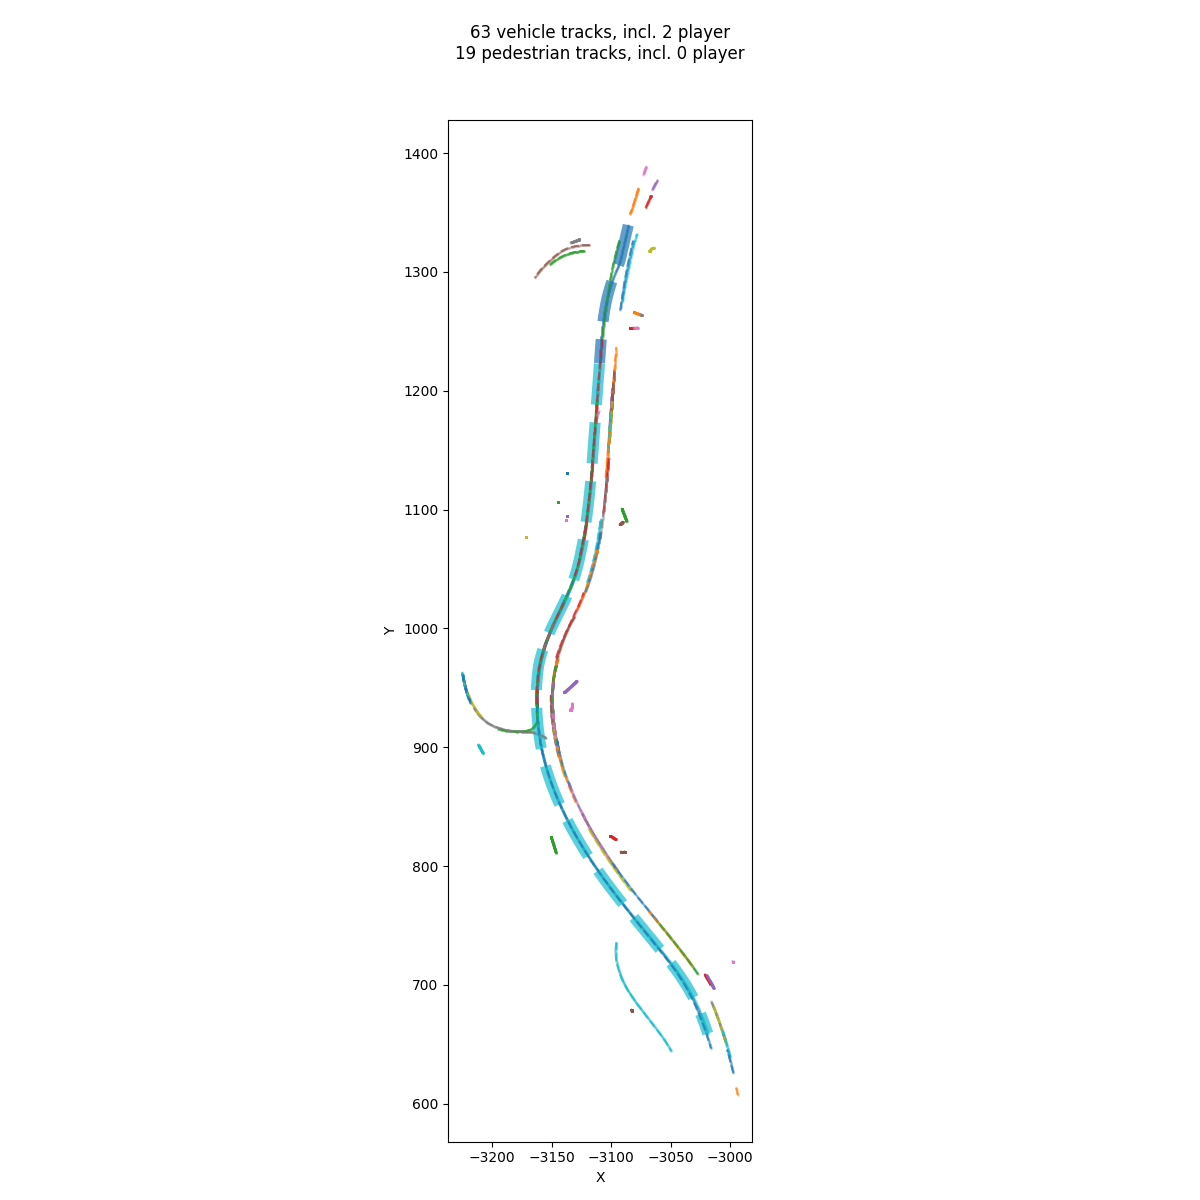
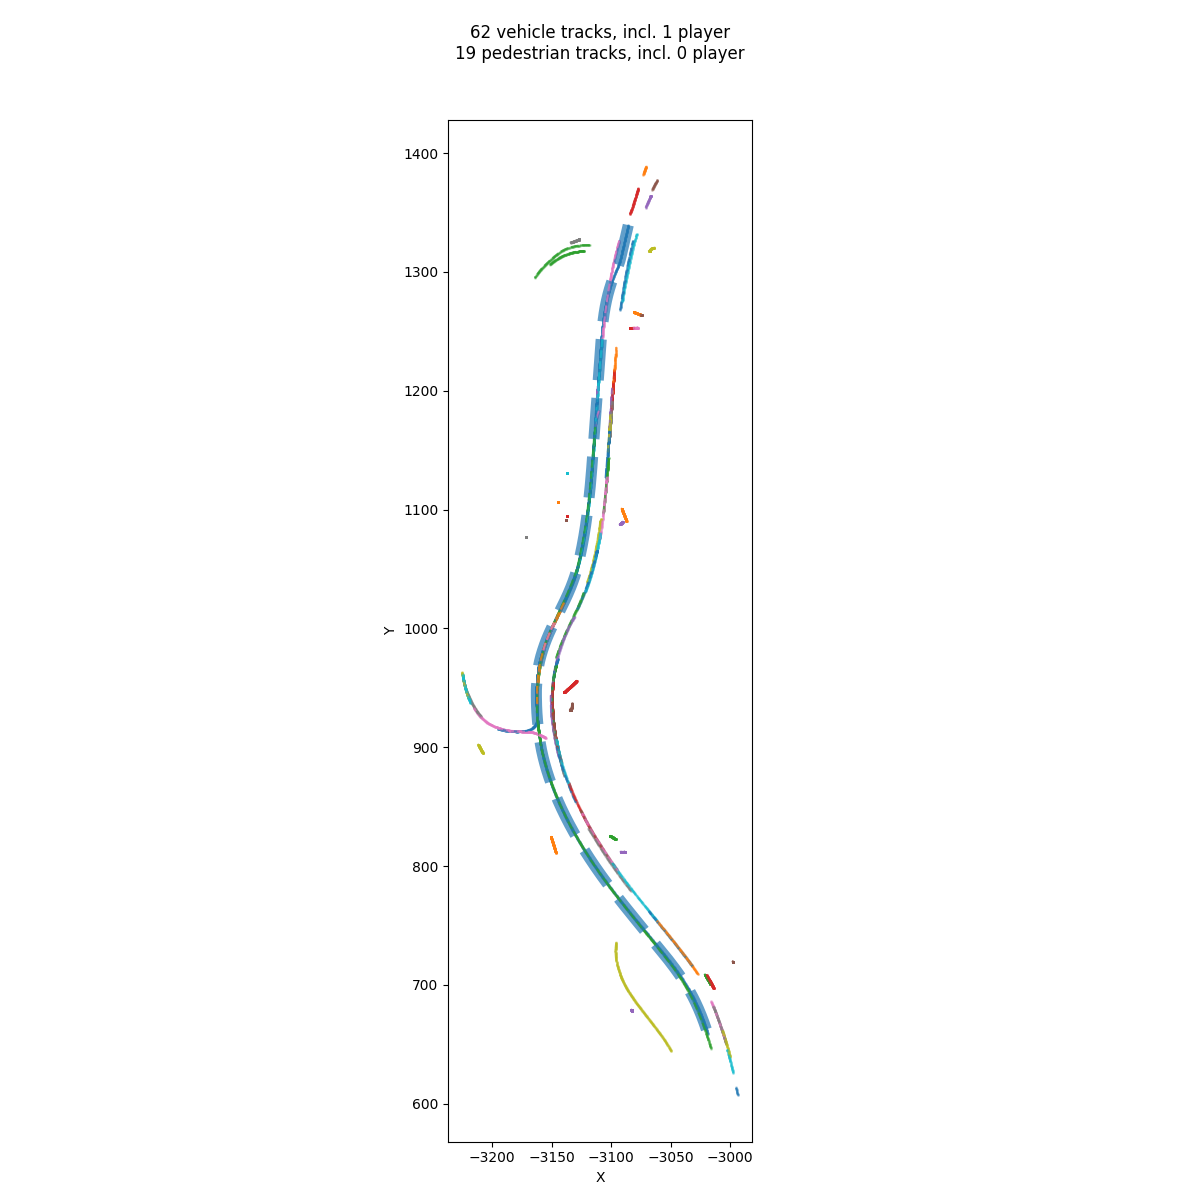
At least, we can merge player tracks.

Changed region(s): [[0.4008, 0.2158, 0.6167, 0.8942], [0.5242, 0.1542, 0.555, 0.185], [0.4625, 0.185, 0.4933, 0.2158]]

diff --git a/src/gta/read_entitystate_data.py b/src/gta/read_entitystate_data.py
@@ -370,12 +370,15 @@ class Track:
 
     def can_merge(self, track, do_plot=False):
         """Return True if the two tracks can be merged."""
-        first, second = self._select_dominant_track(self, track)
+        first = self if self.tmin < track.tmin else track
+        second = self if self is not first else track
         unaffinity = min(
-            first.unaffinity(second.get_interpolated_state(first.tmax)), 
-            second.unaffinity(first.get_interpolated_state(second.tmax))
+            first.unaffinity(second.get_interpolated_state(first.tmax), which=-1), 
+            second.unaffinity(first.get_interpolated_state(second.tmin), which=0)
         )
         possible = unaffinity < first.unaffinity_threshold
+        if possible:
+            print(self, 'can be merged with', track)
         if do_plot and (
             (not first.has_constant_position)
             and
@@ -611,6 +614,78 @@ class TrackManager:
             tested_tracks.sort(key=lambda track: track.duration)
         return tested_tracks[-1]
 
+    def merge_player_tracks(self):
+        tracks = list(sorted(self.tracks, key=lambda track: track.tmin))
+        starting_num_tracks = len(tracks)
+
+        # Identify player vehicles.
+        player_vehicle = None
+        player_ped = None
+
+        new_tracks = []
+        for track in tracks:
+            if track.is_player:
+                if track.is_vehicle:
+                    if player_vehicle is None:
+                        player_vehicle = track
+                    else:
+                        player_vehicle = player_vehicle + track
+                else:
+                    if player_ped is None:
+                        player_ped = track
+                    else:
+                        player_ped = player_ped + track
+                track = None    
+            new_tracks.append(track)
+
+        if player_vehicle is not None:
+            new_tracks.append(player_vehicle)
+        
+        if player_ped is not None:
+            new_tracks.append(player_ped)
+
+        ending_num_tracks = self._delete_merged_tracks(new_tracks)
+
+        assert starting_num_tracks >= ending_num_tracks
+        return starting_num_tracks - ending_num_tracks
+
+    def merge_tracks_by_id(self):
+        tracks = list(sorted(self.tracks, key=lambda track: track.tmin))
+        starting_num_tracks = len(tracks)
+
+        all_ids = set()
+        for track in tracks:
+            all_ids.update(track.ids)
+
+        track_merges = []
+        #pbar = tqdm(total=len(tracks)*len(tracks), unit='pair', desc='Merging tracks by ID')
+        for i, track in enumerate(tracks):
+            this_track_merges = [i]
+            for j, other_track in enumerate(tracks):
+                #pbar.update()
+                if track is other_track:
+                    continue
+                if (
+                    (track.is_vehicle and not other_track.is_vehicle)
+                    or
+                    (not track.is_vehicle and other_track.is_vehicle)
+                ):
+                    continue
+                if (
+                    set(track.ids).intersection(set(other_track.ids)) 
+                    and track.can_merge(other_track)
+                ):
+                    this_track_merges.append(j)
+            track_merges.append(this_track_merges)
+        
+        merge_sets = self._create_merge_sets(track_merges)
+        new_tracks = self._merge_by_mergesets(tracks, merge_sets)
+            
+        ending_num_tracks = self._delete_merged_tracks(new_tracks)
+
+        assert starting_num_tracks >= ending_num_tracks
+        return starting_num_tracks - ending_num_tracks
+
     def merge_tracks_where_possible(self, method='dist'):
         tracks = list(sorted(self.tracks, key=lambda track: track.tmin))
         starting_num_tracks = len(tracks)
@@ -685,39 +760,57 @@ class TrackManager:
                     #    mergees.remove(itrack)
                     track_merges.append(tracks_nearby)
 
-            # Find overlapping sets.
-            merge_sets = []
-            for mergees in track_merges:
-                mergees = set(mergees)
-                has_overlap = False
-                for existing_set in merge_sets:
-                    if existing_set.intersection(mergees):
-                        # There's an overlap; replace the existing set with the union one.
-                        new_set = set(existing_set).union(mergees)
-                        merge_sets.remove(existing_set)
-                        merge_sets.append(new_set)
-                        has_overlap = True
-                if not has_overlap:
-                    merge_sets.append(mergees)
-                    
-            # Do the merging.
-            for i, mergees in enumerate(merge_sets):
-                if len(mergees) > 0:
-                    for j in mergees:
-                        if j != i:
-                            ti = tracks[i]
-                            tj = tracks[j]
-                            if ti is not None and tj is not None:
-                                merged = tracks[i] + tracks[j]
-                                if merged is ti:
-                                    tracks[j] = None
-                                else:
-                                    tracks[i] = None
+            
+            merge_sets = self._create_merge_sets(track_merges)
+            tracks = self._merge_by_mergesets(tracks, merge_sets)
 
+
+        # Remove any tracks that were merged away.
+        ending_num_tracks = self._delete_merged_tracks(tracks)
+
+        assert starting_num_tracks >= ending_num_tracks
+        return starting_num_tracks - ending_num_tracks
+
+    @staticmethod
+    def _create_merge_sets(track_merges):
+        # Find overlapping sets.
+        merge_sets = []
+        for mergees in track_merges:
+            mergees = set(mergees)
+            has_overlap = False
+            for existing_set in merge_sets:
+                if existing_set.intersection(mergees):
+                    # There's an overlap; replace the existing set with the union one.
+                    new_set = set(existing_set).union(mergees)
+                    merge_sets.remove(existing_set)
+                    merge_sets.append(new_set)
+                    has_overlap = True
+            if not has_overlap:
+                merge_sets.append(mergees)
+        return merge_sets
+
+    @staticmethod
+    def _merge_by_mergesets(tracks, merge_sets):
+        # Do the merging.
+        for i, mergees in enumerate(merge_sets):
+            if len(mergees) > 0:
+                for j in mergees:
+                    if j != i:
+                        ti = tracks[i]
+                        tj = tracks[j]
+                        if ti is not None and tj is not None:
+                            merged = tracks[i] + tracks[j]
+                            if merged is ti:
+                                tracks[j] = None
+                            else:
+                                tracks[i] = None
+        return tracks
+
+    def _delete_merged_tracks(self, tracks_or_Nones):
         # Remove any tracks that were merged away.
         new_trackgroups = {}
         ending_num_tracks = 0
-        for track in tracks:
+        for track in tracks_or_Nones:
             if track is None:
                 continue
             ending_num_tracks += 1
@@ -726,10 +819,7 @@ class TrackManager:
                     new_trackgroups[i] = []
                 new_trackgroups[i].append(track)
         self.trackgroups = new_trackgroups
-
-        assert starting_num_tracks >= ending_num_tracks
-        return starting_num_tracks - ending_num_tracks
-
+        return ending_num_tracks
 
     def show_tracks(self, ax=None, plot_3d=False, **kw_plot):
         kw_plot.setdefault('alpha', 0.75)
@@ -777,8 +867,12 @@ def read_data_main(plot_3d=False, fname=join(HOME, 'data', 'gta', 'velocity_pred
     #track_manager.show_tracks(plot_3d=False)
 
     # n_merged = track_manager.merge_tracks_where_possible()
+    n_merged = track_manager.merge_player_tracks()
     # if n_merged:
-    #     print('Merged away', n_merged, 'tracks.')
+    print('Merged away', n_merged, 'player tracks.')
+    # n_merged = track_manager.merge_tracks_by_id()
+    # # if n_merged:
+    # print('Merged away', n_merged, 'tracks by ID.')
 
     #t_mean = (track_manager.tmin + track_manager.tmax) / 2.
     #active_tracks = track_manager.get_active_tracks(t_mean)
@@ -813,8 +907,8 @@ def read_data_main(plot_3d=False, fname=join(HOME, 'data', 'gta', 'velocity_pred
             # Plot the underlying data.
             X = track._get_data('posx')
             Y = track._get_data('posy')
-            ax.scatter(X, Y, color=line._color, s=1, alpha=.1)
-
+            ax.scatter(X, Y, color=line._color, s=1, alpha=.2)
+            
         ax.set_xlabel('X')
         ax.set_ylabel('Y')
         vehicle_tracks = [track for track in track_manager.tracks if len(track) >= minimum_length and track.is_vehicle and not track.has_constant_position]
